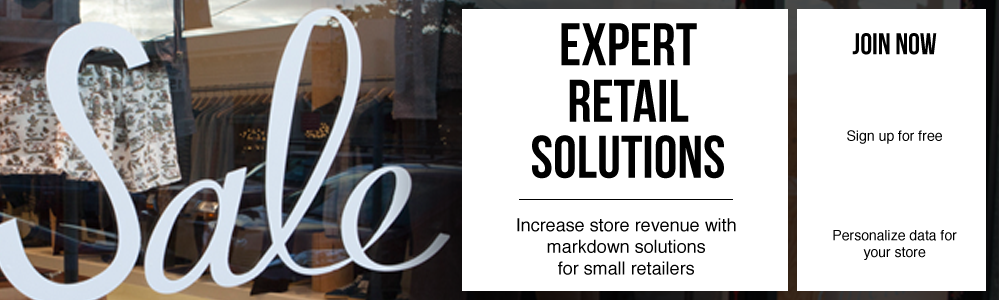
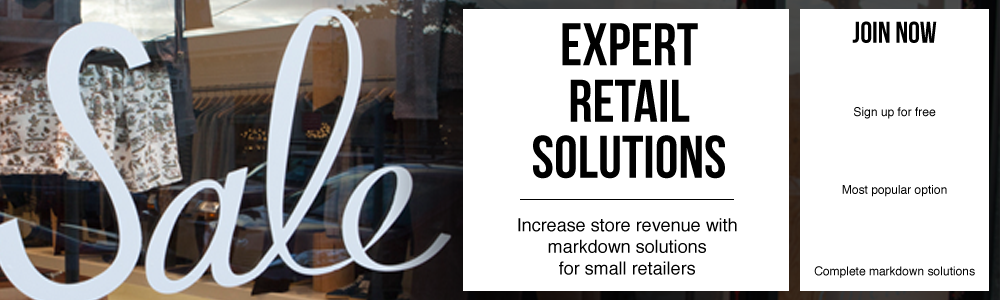
Some stuff

diff --git a/app/assets/stylesheets/styles.css.scss b/app/assets/stylesheets/styles.css.scss
@@ -188,7 +188,7 @@ color:#432060;
 			  margin: auto;
 	     }
 	    	.carousel-caption .btn-one {
-		      margin-top: 57px;
+		      margin-top: 36px;
 					width: 100px;
 					margin-left: 35px;
 					position: absolute;
@@ -198,13 +198,22 @@ color:#432060;
 		    }
 		
 		    .carousel-caption .btn-two {
-		      margin-top: 151px;
+		      margin-top: 106px;
 					width: 100px;
 					margin-left: 36px;
 					position: absolute;
 					display: block;
 		      
 		    }
+		
+		     .carousel-caption .btn-three {
+			      margin-top: 190px;
+						width: 100px;
+						margin-left: 36px;
+						position: absolute;
+						display: block;
+
+			    }
 	    
 	    .asfeatured {
 				font-size:x-large;
